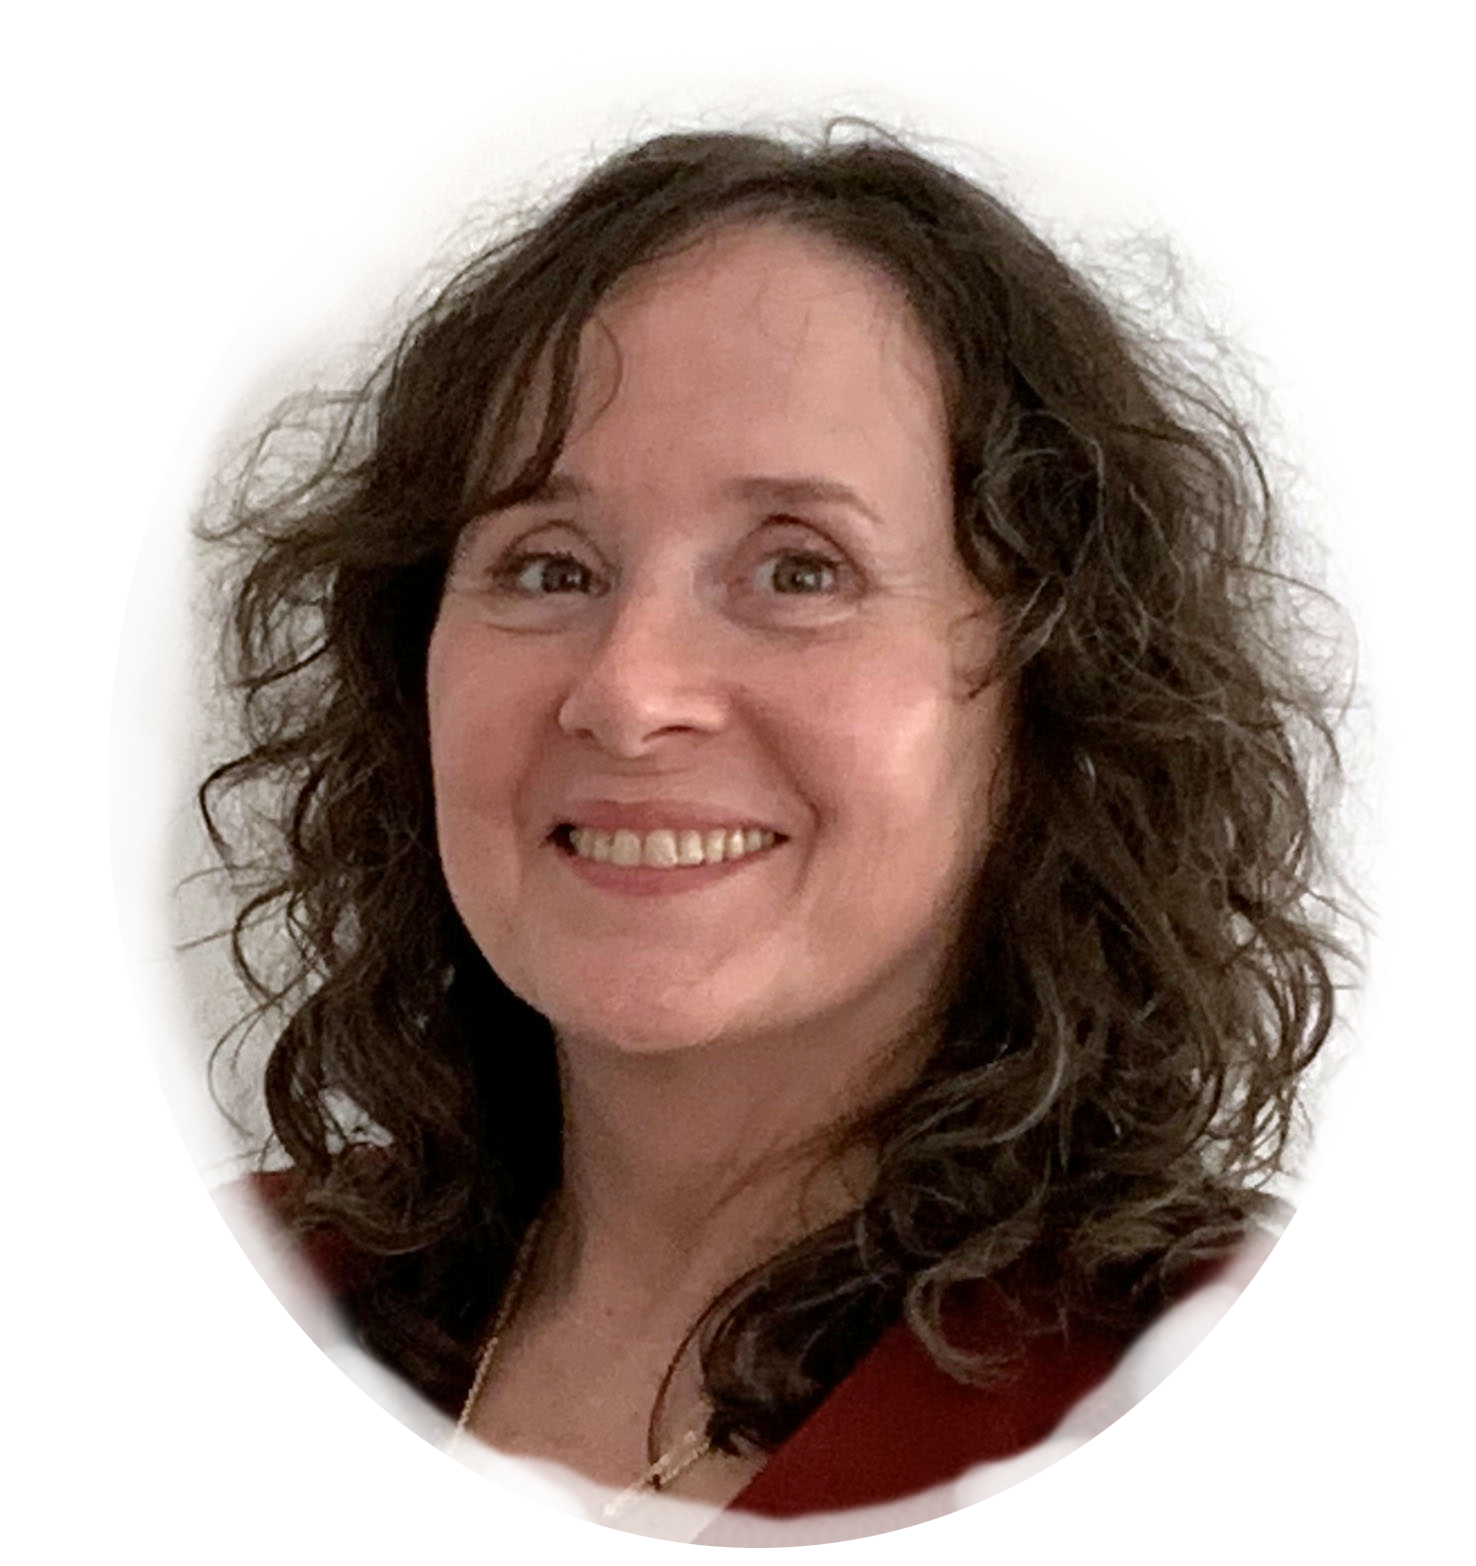
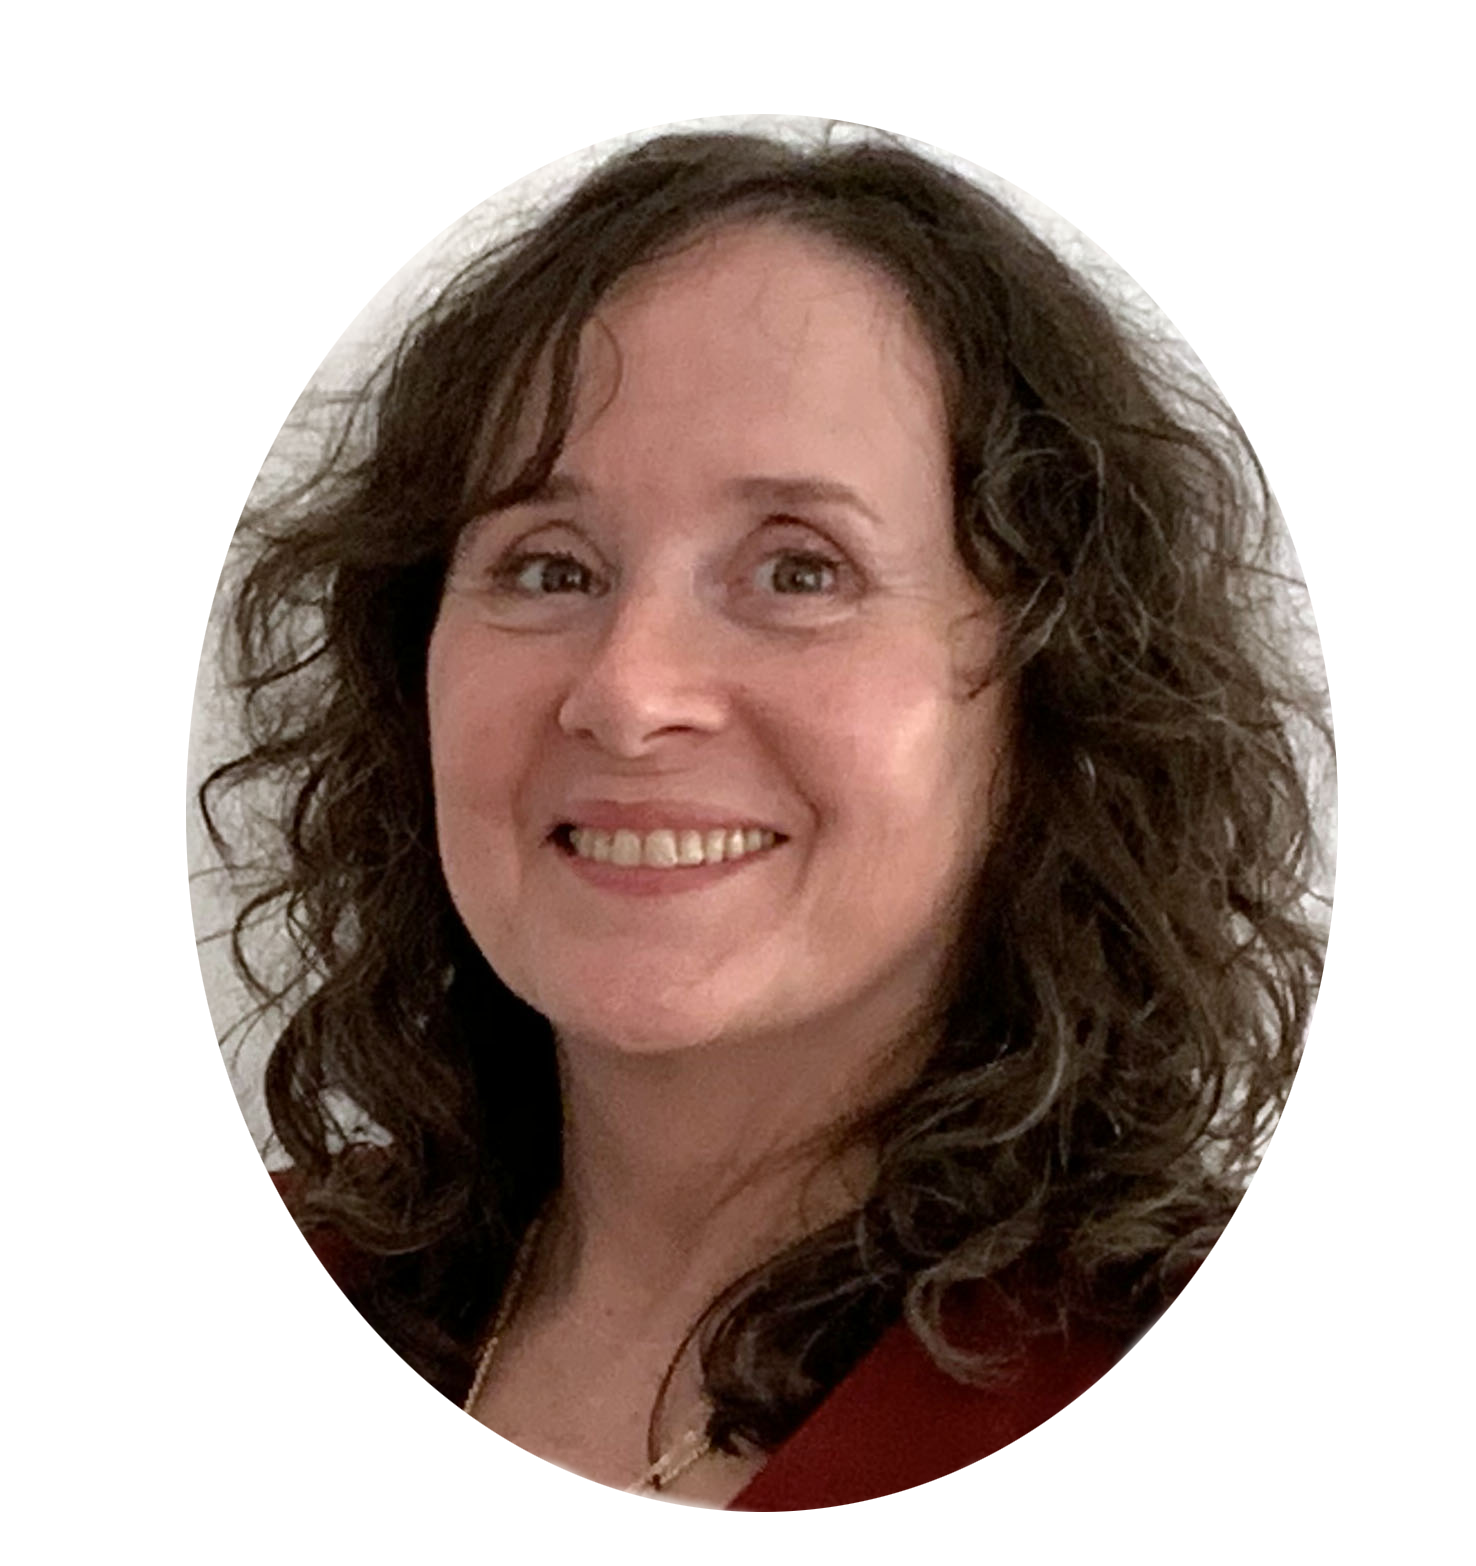
cleaned up and moved profile picture

Changed region(s): [[0.0935, 0.1533, 0.935, 1.0], [0.561, 0.0613, 0.6545, 0.092], [0.6545, 0.092, 0.6856, 0.1226]]

diff --git a/index.html b/index.html
@@ -30,12 +30,11 @@
         <!-- Navbar -->
         <nav class="navbar navbar-expand-lg navbar-light">
             <div class="navbar-brand">
-                <img id="portrait" class="img-fluid float-sm-left px-1 py-1 mr-2 mb-2"
-                    src="./assets/images/profile-picture.png" alt="Profile Picture" />
+                <img id="portrait" src="./assets/images/profile-picture.png" alt="Profile Picture" />
                 <a class="navbar-brand" href="#">
-                    <!-- <span class="h1 align-baseline">
+                    <h1 class="font-weight-normal">
                         Sherrie McNulty
-                    </span> -->
+                    </h1>
                 </a>
             </div>
             <button class="navbar-toggler" type="button" data-toggle="collapse" data-target="#collapsibleNavbar">
@@ -66,7 +65,7 @@
                     </li>
                     <li class="nav-item">
                         <a class="nav-link" href="mailto:sherriemcnulty@gmail.com?subject=Portfolio">
-                            sherriemcnulty@gmail.com
+                            Contact
                         </a>
                     </li>
                 </ul>
@@ -77,7 +76,9 @@
             <div class="col-sm-12">
                 <!-- <img id="portrait" class="img-fluid float-sm-left px-1 py-1 mr-2 mb-2"
                     src="./assets/images/profile-picture.png" alt="Profile Picture" /> -->
-                <h1>Hi, I'm Sherrie McNulty.</h1>
+                <p>
+                    Hi, I'm Sherrie McNulty.
+                </p>
                 <p>
                     Full-Stack Web Developer with a passion for creating purposeful user-friendly applications. Proven
                     history of software diagnostics, client
